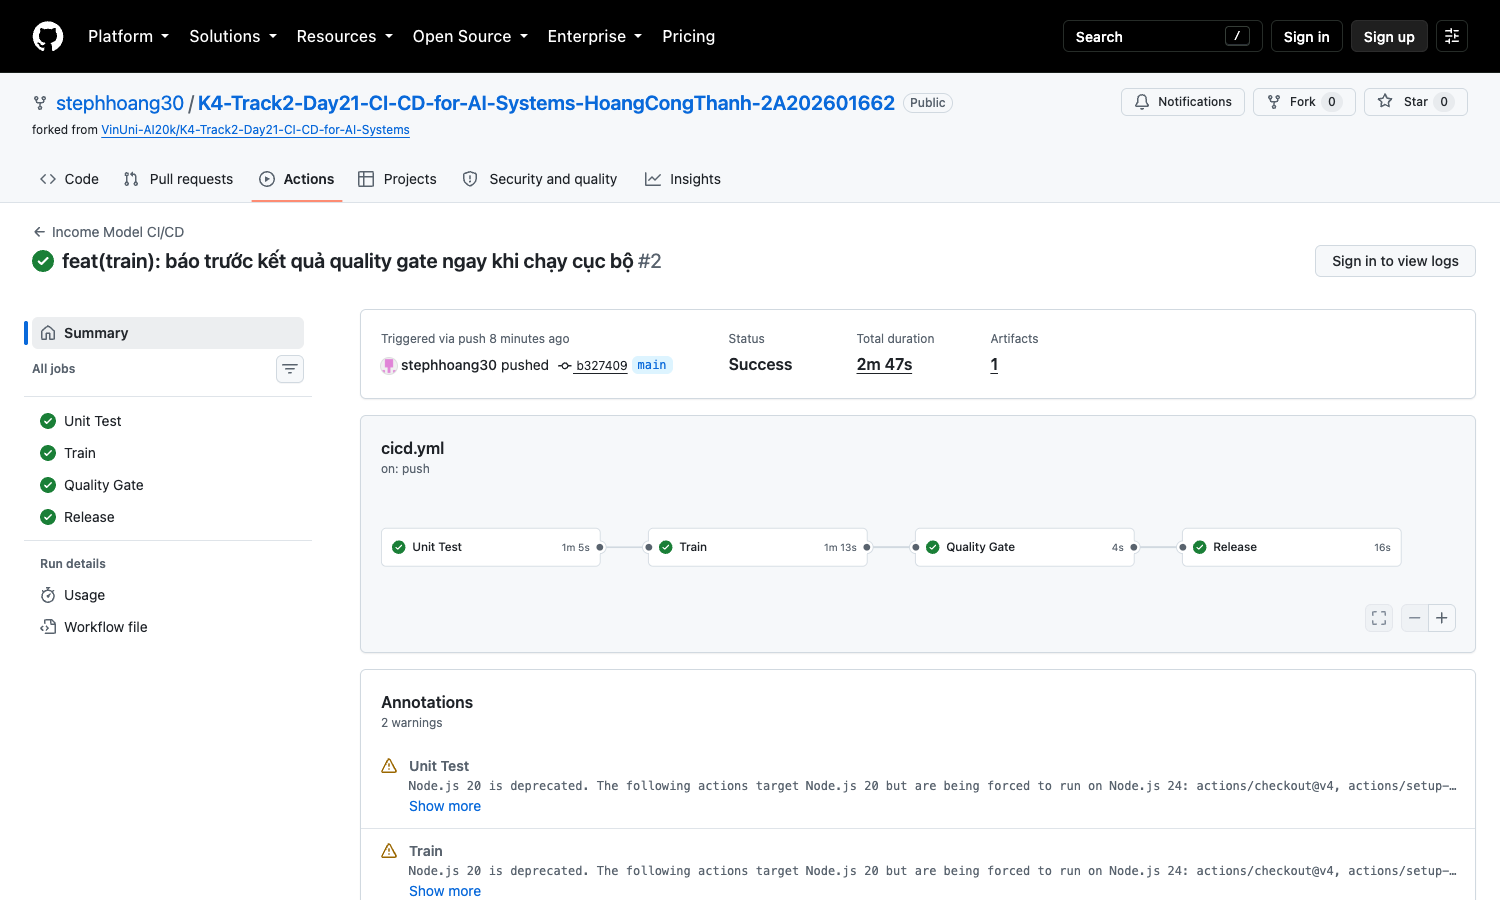
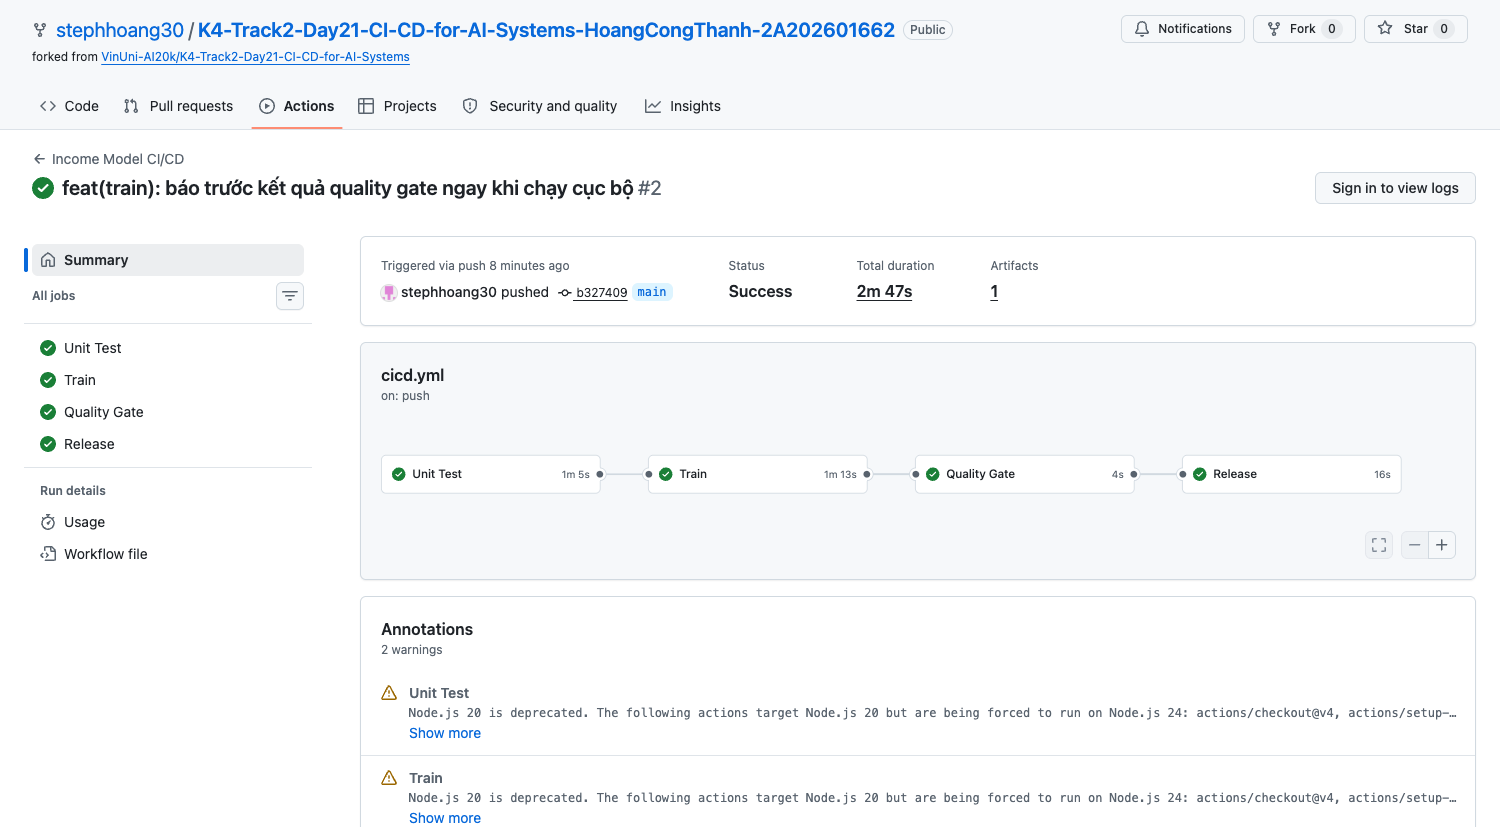
docs: đồng bộ README với requirements AWS, làm rõ nhận xét Bước 3
- README: khối requirements.txt trong tài liệu vẫn ghi dvc[gs] và
  google-cloud-storage trong khi file thật đã chuyển sang dvc[s3] +
  boto3. Sửa cho khớp, thêm cả dòng setuptools<81.
- bao-cao.md: nói rõ hai nửa dữ liệu cùng phân phối nên mức tăng đến
  từ đâu, thay vì hàm ý thêm dữ liệu thì đương nhiên tốt hơn. Ghi chú
  prefix DVC là dvc-k4/ chứ không phải dvc/.

diff --git a/README.md b/README.md
@@ -218,15 +218,17 @@ mlflow==2.13.0
 scikit-learn==1.4.2
 pandas==2.2.2
 # DVC extra theo provider: [gs]=GCP, [s3]=AWS, [azure]=Azure
-dvc[gs]==3.50.1
+dvc[s3]==3.50.1
 pathspec==0.11.2
 pytest==8.2.0
 fastapi==0.111.0
 uvicorn==0.29.0
 joblib==1.4.2
 # Cloud SDK theo provider: google-cloud-storage (GCP), boto3 (AWS), azure-storage-blob (Azure)
-google-cloud-storage==2.16.0
+boto3==1.34.100
 pyyaml==6.0.1
+# mlflow 2.13 con import pkg_resources; venv cua pip moi khong con kem setuptools
+setuptools<81
 ```
 
 ---
